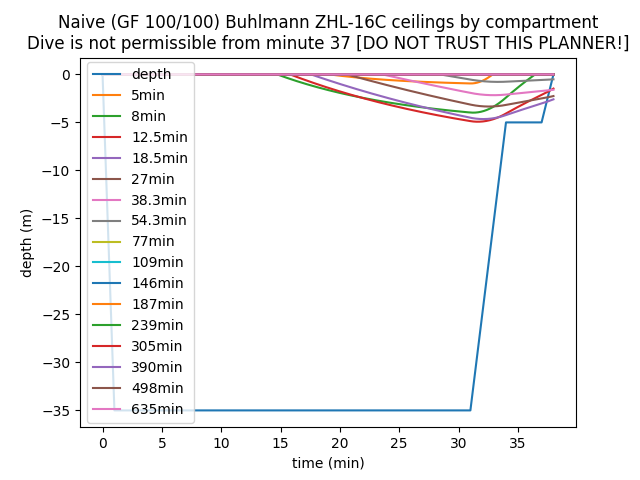
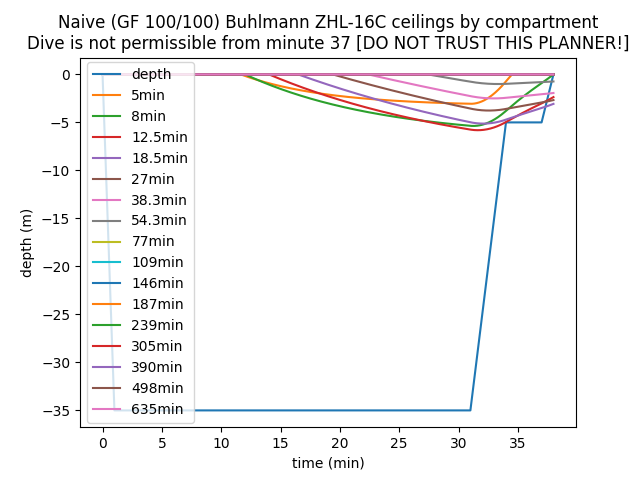
remove gf, BIG fix

Changed region(s): [[0.375, 0.1562, 0.875, 0.2812]]

diff --git a/deco.py b/deco.py
@@ -127,28 +127,33 @@ class BuhlmannCompartmentState:
         # this is the main algo
         self.ppn2 = prev_ppn2 + (inhaled_ppn2 - prev_ppn2) * (1 - 2 ** (-(time_spent / 60) / compartment.half_time_min))
 
-    def calculate_ceiling(self, ppn2, surfacing_m_value, m_value_slope, gf=100):
+    def calculate_ceiling(self, ppn2, surfacing_m_value, m_value_slope):#, gf=100):
         # TODO stare carefully at this maths as this whole section makes NO sense
-        surfacing_m_value_bar = (surfacing_m_value/10 - 1) * NITROGEN  # trying with the idea that the m-values have surface = 10msw
-        gf_prop = gf/100
-        equiv_abs_pressure = ppn2  # depth at which you would be in equilibrium. this is the y-axis
-        adjusted_m_value_slope = m_value_slope*(gf_prop) + (1-gf_prop)  # weighted average of M-value slope and equilibrium
+        surfacing_m_value_bar = surfacing_m_value/10 # body partial pressure limit for nitrogen
+        # gf_prop = gf/100
+        # equiv_abs_pressure = ppn2  # depth at which you would be in equilibrium. this is the y-axis
+        # m_value_slope is increase of M per metre depth - the units here are different - change in partial pressure per metre
+        m_value_slope_bar = m_value_slope  # change in partial pressure per bar
+        # adjusted_m_value_slope = m_value_slope*(gf_prop) + (1-gf_prop)  # weighted average of M-value slope and equilibrium
 
         """
-        line for m-value is:
-        equiv_depth = slope * depth + surfacing_m_value
-        adjusted, this is
-        equiv_depth = gf_slope * depth + gf_surfacing_m_value
+        The Nitrogen constant NITROGEN should not appear here AT ALL. nobody cares what you're breathing. It's only the ppn2
+        in your body compared to the pressure around you. That's all
 
-        given equiv_depth, need depth
-        depth = (equiv_depth - gf_surfacing_m_value)/gf_slope
+        Find M-value for a given ambient pressure.
 
-        adjusted slope is the weighted average of 1 and original slope, gf=1 gives original slope
-        adjusted surfacing m_value is ??? weighted average of 0  and original surfacing m_value, gf=1 gives original
+        Ambient pressure = 1 means M-value = surfacing_m_value
+        Ambient pressure = 2 means M-value = surfacing_m_value + m_value_slope_bar
+
+        so M_value = surfacing_m_value + amb_press_bar * m_value_slope_bar
+
+        now sub ppn2 = M_value and find amb_press_bar
+
+        amb_press_bar = (ppn2 - surfacing_m_value) / m_value_slope_bar
         """
 
-        ceiling_bar = (equiv_abs_pressure - (surfacing_m_value_bar)*gf_prop) / adjusted_m_value_slope
-        ceiling = ceiling_bar*10-10
+        ceiling_bar = (ppn2 - surfacing_m_value_bar) / m_value_slope_bar
+        ceiling = ceiling_bar*10  # why not +1 ?!
         if ceiling<0:
             return 0
         else:
@@ -234,6 +239,8 @@ def graph_buhlmann_dive_profile(dive: DiveProfile, buhlmann: Buhlmann_Z16C):
     for i in range(len(buhlmann.compartments)):
         compartment_ceiling = [-checkpoint.state[i].ceiling for checkpoint in dive.profile]
         plt.plot(times, compartment_ceiling, label=str(buhlmann.compartments[i].half_time_min) + 'min')
+        # compartment_ppn2 = [checkpoint.state[i].ppn2 for checkpoint in dive.profile]
+        # plt.plot(times, compartment_ppn2, label=str(buhlmann.compartments[i].half_time_min) + 'min')
     plt.xlabel('time (min)')
     plt.ylabel('depth (m)')
     plt.title('Naive (GF 100/100) Buhlmann ZHL-16C ceilings by compartment\nDive is {} [DO NOT TRUST THIS PLANNER!]'.format('permissible' if validation else 'not permissible from minute {}'.format(min_minute_not_allowed)))
